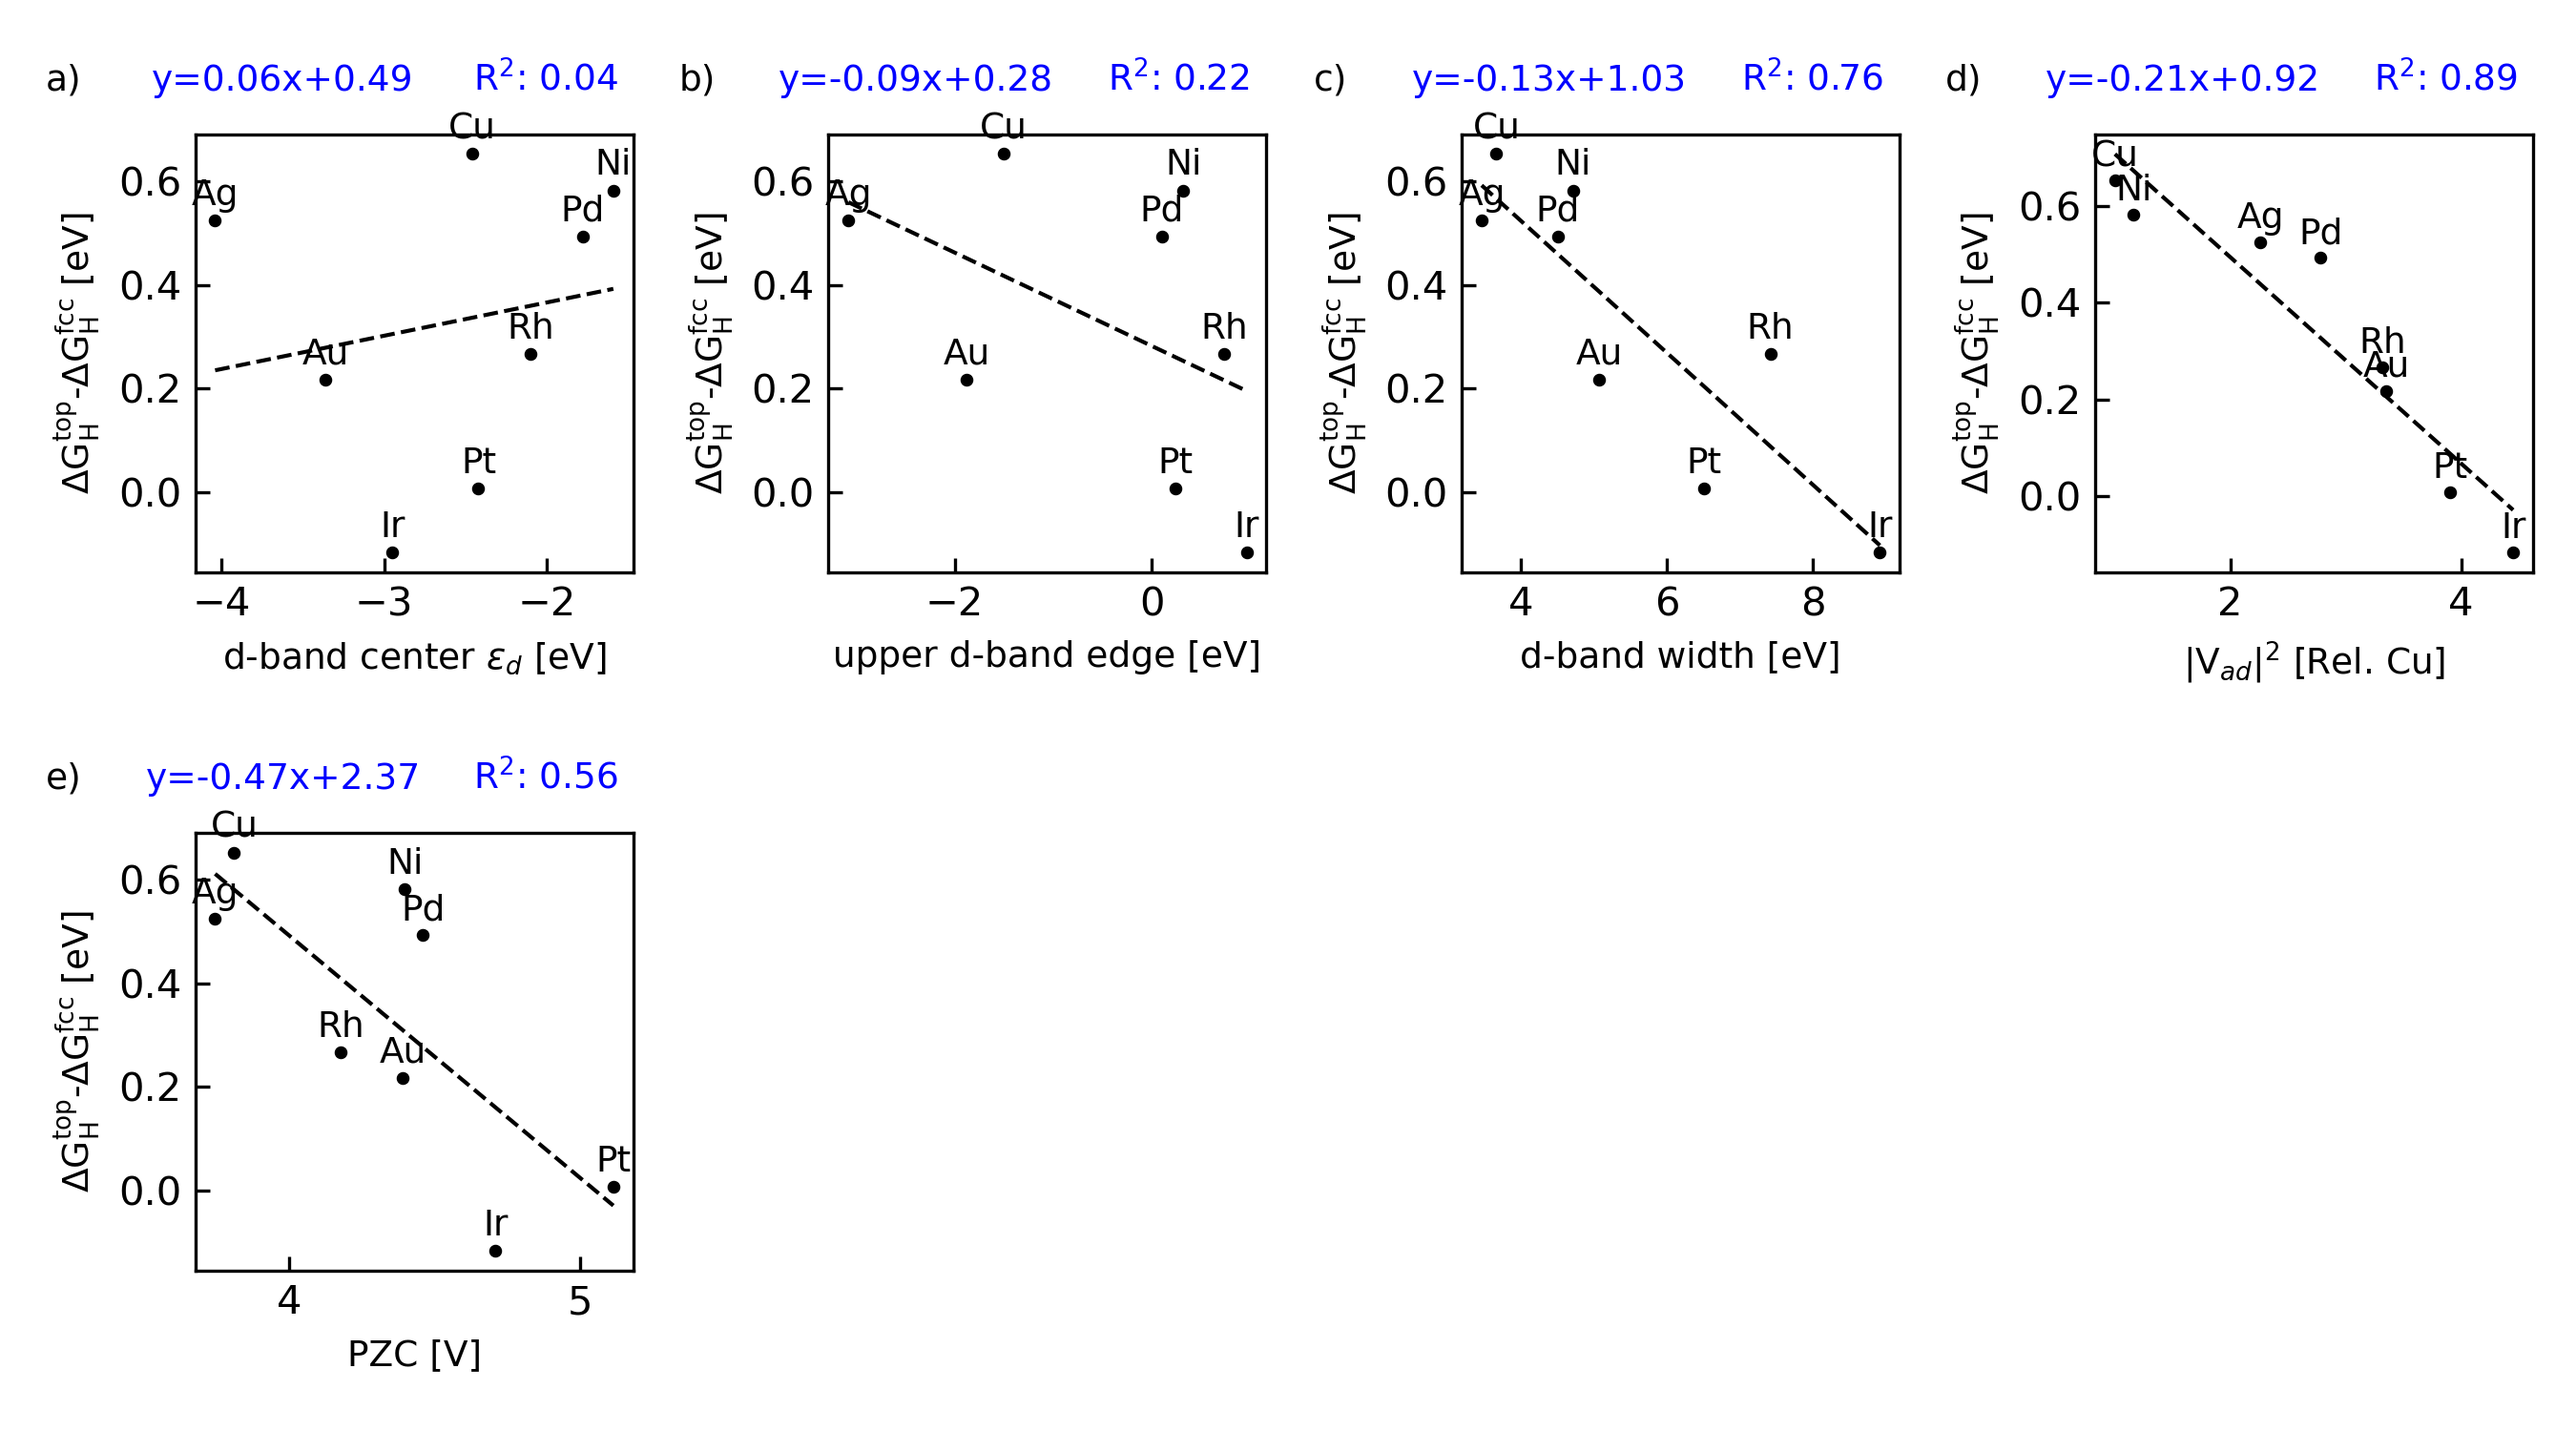
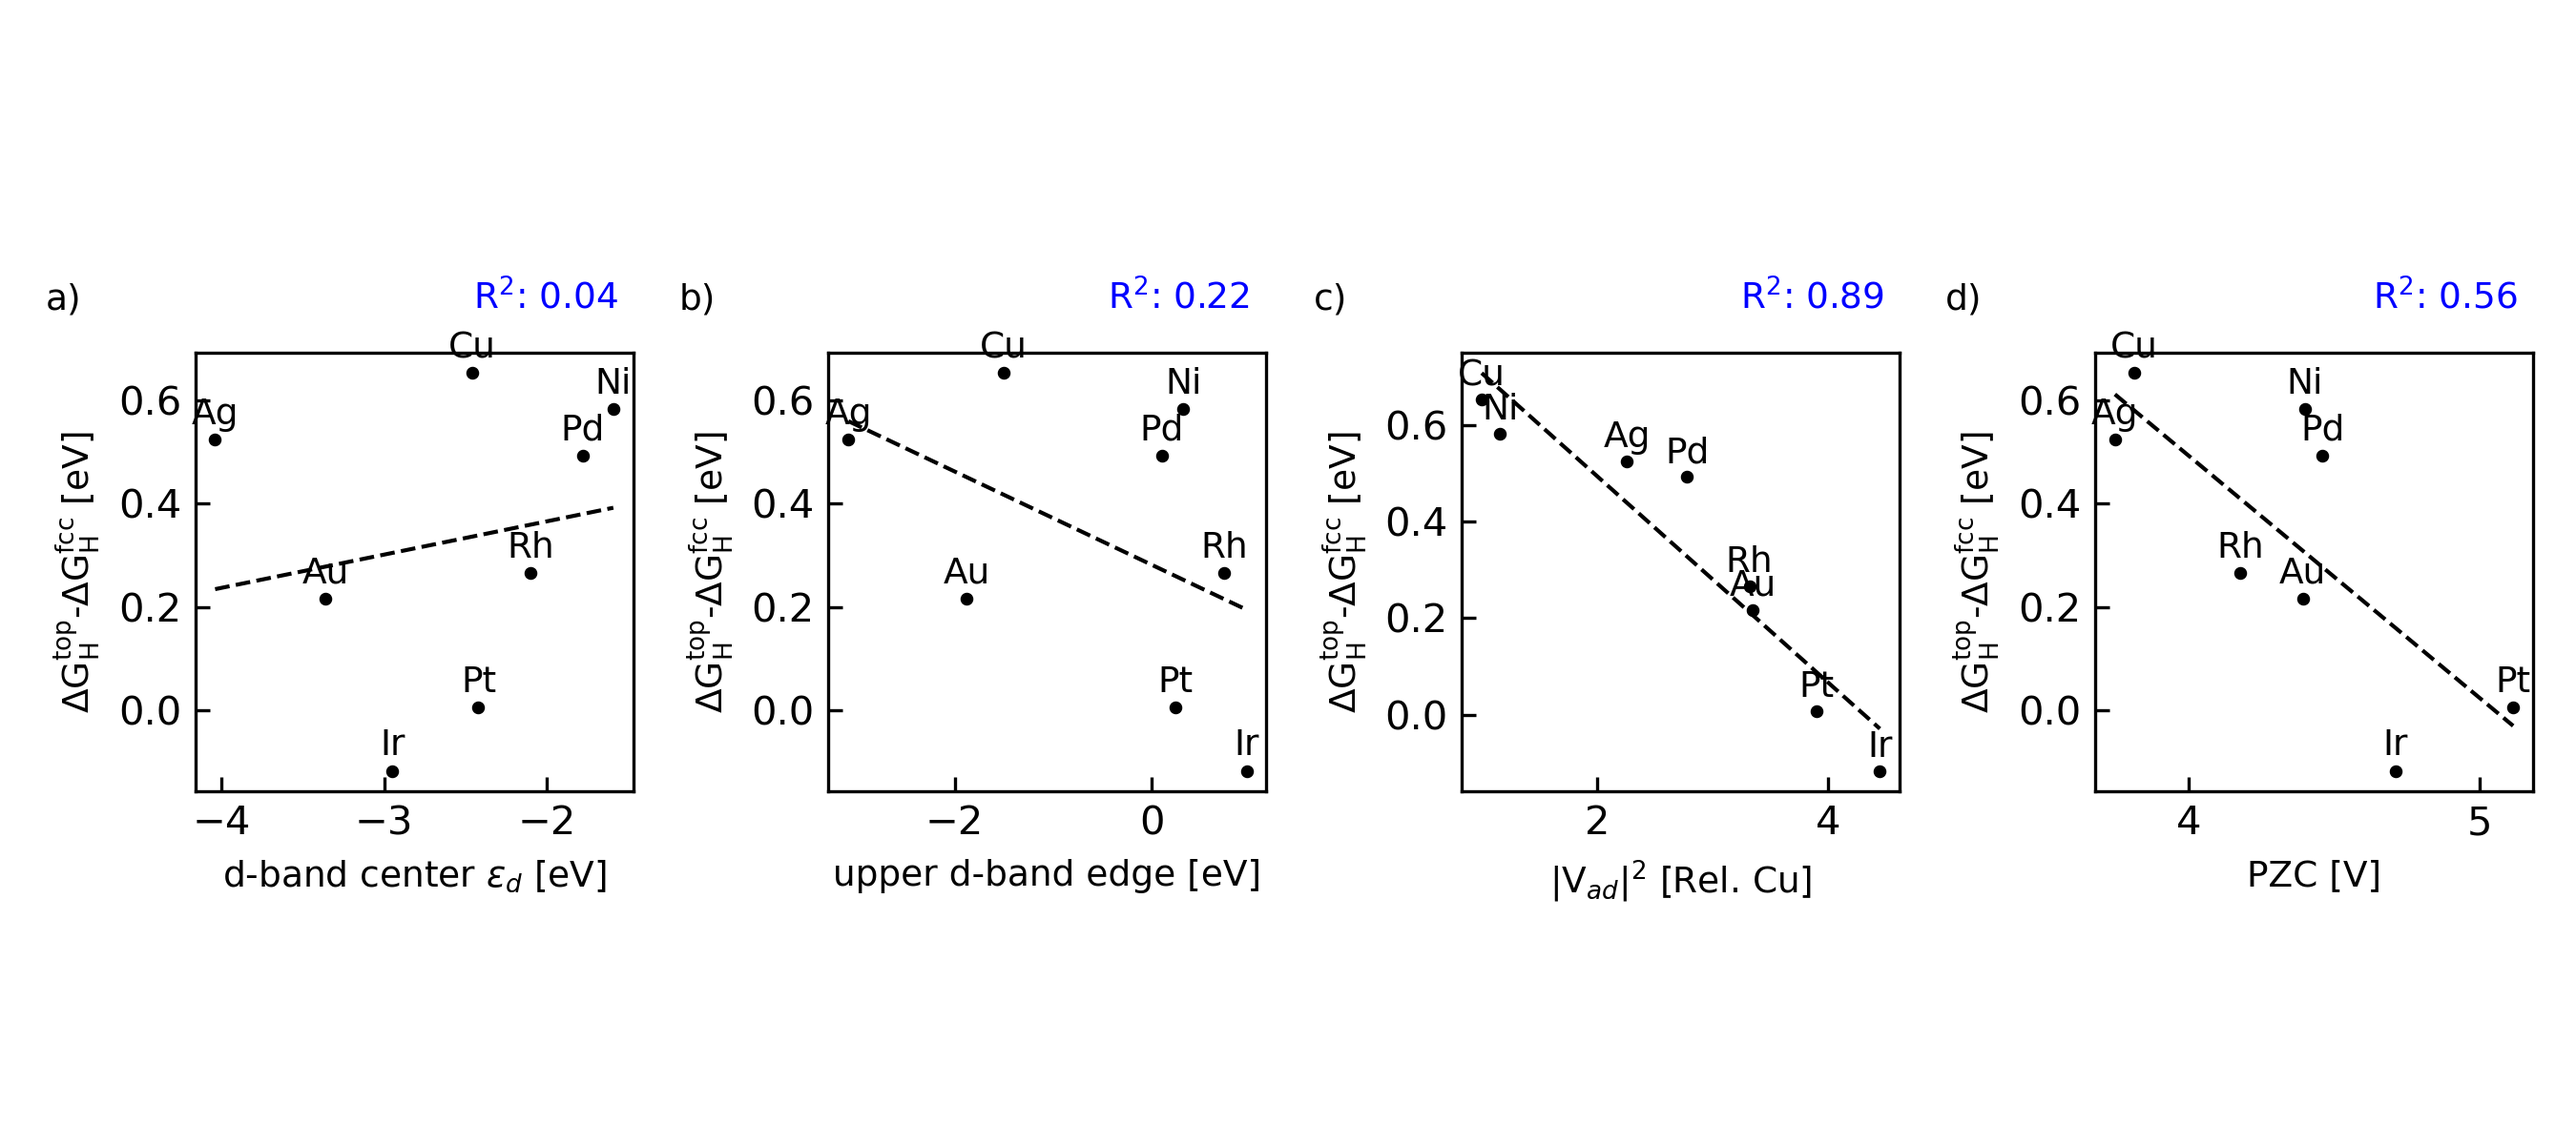
update

diff --git a/Figures_SI/electronic_correlations/plot_Y_vs_X_her.py b/Figures_SI/electronic_correlations/plot_Y_vs_X_her.py
@@ -233,10 +233,14 @@ if __name__ == "__main__":
             termination='111'
         terminations.append(termination)
 
-    for ykey in ['i0','heyrovsky','volmer','tafel','PZC','vac_Htop','vac_HBE','WF','Htop-Hfcc','dbandcenterVoj','dbandwidthVoj','dbandupperedgeVoj','dbandupperedgeXin','dbandupperedge']: 
+    for ykey in ['i0','heyrovsky','volmer','tafel','PZC','vac_Htop','vac_HBE','WF','Htop-Hfcc','dbandcenterHam','dbandcenterVoj','dbandwidthVoj','dbandupperedgeVoj','dbandupperedgeXin','dbandupperedge']: 
         for xkey in ['Htop-Hfcc','vac_HBE','vac_Htop','PZC','WF', 'dbandcenterVoj','dbandwidthVoj','vsquaredRELVoj','dbandupperedgeVoj','dbandupperedgeXin','dbandupperedge']:
 
-            if ykey == 'volmer':
+            if ykey == 'i0':
+                yvals= np.array(  [float(df.loc[ df['metal'] == metal, ykey].iloc[0])  for metal in metals ] )
+                ylabel=r'log($|j_0|$/(mA cm$^{-2}$))'
+            
+            elif ykey == 'volmer':
                 yvals= np.array(  [ float( df.loc[ df['metal'] == metal, ykey].iloc[0])  for metal in metals ] )
                 ylabel=r'$\Delta \Omega_{\text{Volmer}} ^{\ddagger}$ [eV] '
             
@@ -251,9 +255,6 @@ if __name__ == "__main__":
                 print(ykey)
                 print(yvals)
             
-            elif ykey == 'i0':
-                yvals= np.array(  [float(df.loc[ df['metal'] == metal, ykey].iloc[0])  for metal in metals ] )
-                ylabel=r'log($|j_0|$/(mA cm$^{-2}$))'
             
             elif ykey == 'PZC':
                 yvals= np.array(  [float(df.loc[ df['metal'] == metal, ykey].iloc[0])  for metal in metals ] )
@@ -286,17 +287,17 @@ if __name__ == "__main__":
                 ylabel=r'|V$_{ad}$|$^2$ [Rel. Cu]' 
             
 
-            elif ykey == 'dbandcenter': 
-                yvals  = np.array(  [float(TM.loc[ TM['metal'] == metal, ykey].iloc[0])  for metal in metals ] )
-                ylabel=r'd-band center $\epsilon_d$ [eV]'
+            elif ykey == 'dbandcenterHam': 
+                yvals  = np.array(  [float(TM.loc[ TM['metal'] == metal, 'dbandcenter'].iloc[0])  for metal in metals ] )
+                ylabel=r'd-band center Ham00 $\epsilon_d$ [eV]'
+            elif ykey == 'dbandcenterVoj': 
+                yvals  = np.array(  [Voj.loc[ Voj['metal'] == metal, 'ed']  for metal in metals ] )
+                ylabel=r'd-band center Voj14 $\epsilon_d$ [eV]'
         
-            elif ykey == 'dbandupperedge':   
+            elif ykey == 'dbandupperedgeMP':   
                 yvals= np.array(  [ float(TM.loc[ TM['metal'] == metal, ykey].iloc[0])  for metal in metals ] )
                 ylabel=r'd-band upper edge SimiamMP [eV]'
             
-            elif ykey == 'dbandcenterVoj': 
-                yvals  = np.array(  [Voj.loc[ Voj['metal'] == metal, 'ed']  for metal in metals ] )
-                ylabel=r'd-band center $\epsilon_d$ [eV]'
         
             elif ykey == 'dbandupperedgeVoj':   
                 
@@ -350,11 +351,11 @@ if __name__ == "__main__":
                 xvals = htops - hfccs
                 xlabel=r'$\Delta$G$_{\text{H}}^{\text{top}}$-$\Delta$G$_{\text{H}}^{\text{fcc}}$ [eV]' #vac
             
-            elif xkey == 'dbandcenter': 
-                xvals  = np.array(  [TM.loc[ TM['metal'] == metal, xkey]  for metal in metals ] )
-                xlabel=r'd-band center $\epsilon_d$ [eV]'
+            elif xkey == 'dbandcenterHam': 
+                xvals  = np.array(  [TM.loc[ TM['metal'] == metal, 'dbandcenter']  for metal in metals ] )
+                xlabel=r'd-band center Ham00 $\epsilon_d$ [eV]'
         
-            elif xkey == 'dbandupperedge':   
+            elif xkey == 'dbandupperedgeMP':   
                 xvals= np.array(  [TM.loc[ TM['metal'] == metal, xkey]  for metal in metals ] )
                 #xlabel=r'd-band upper edge [eV]'
                 xlabel=r'd-band upper edge SimiamMP [eV]'
@@ -367,7 +368,7 @@ if __name__ == "__main__":
 
             elif xkey == 'dbandcenterVoj': 
                 xvals  = np.array(  [Voj.loc[ Voj['metal'] == metal, 'ed']  for metal in metals ] )
-                xlabel=r'd-band center $\epsilon_d$ [eV]'
+                xlabel=r'd-band center Voj2014 $\epsilon_d$ [eV]'
         
             elif xkey == 'dbandupperedgeVoj':   
                 
@@ -395,7 +396,7 @@ if __name__ == "__main__":
                 mcns= np.array(  [Voj.loc[ Voj['metal'] == metal, 'mcn']  for metal in metals ] )
                 dwidths = 4*np.sqrt(mcns)
                 xvals = dwidths
-                xlabel=r'd-band width [eV]'
+                xlabel=r'd-band width Voj14 [eV]'
             
             elif xkey == 'PZC':
                 xvals= np.array(  [df.loc[ df['metal'] == metal, xkey]  for metal in metals ] )

diff --git a/Figures_SI/electronic_correlations/plot_descriptor_analysis_array.py b/Figures_SI/electronic_correlations/plot_descriptor_analysis_array.py
@@ -137,7 +137,7 @@ def plot_array(dd,labels,flag):
 
     Nkeys = len(dd.keys())
     
-    for v in [1,2,3,4,5,6,7,8]: #versions.
+    for v in [1,2,3,4,5,6,7,8,9]: #versions.
 
         if v ==1:
             #Version 1
@@ -221,9 +221,20 @@ def plot_array(dd,labels,flag):
             figsize = (9,5)
             ykeys = ['hdiff']*8 #Ncols +['htop']*Ncols +['hdiff']*Ncols #dd.keys()
             xkeys = [dd.keys().to_list()[i] for i in [1,2,3,4,5]]*2
-            figname='hdiff_vs_descriptors'
+            figname='hdiff_vs_descriptors_full'
             show_equation=True
             hidden_axes = [5,6,7]
+        
+        elif v==9:
+            #Version 
+            Nrows = 1
+            Ncols = 4
+            figsize = (9,4)
+            ykeys = ['hdiff']*4 #Ncols +['htop']*Ncols +['hdiff']*Ncols #dd.keys()
+            xkeys = ['dcenter','dedge','vad','pzc'] #dd.keys().to_list()[i] for i in [1,2,3,4,5]]*2
+            figname='hdiff_vs_descriptors'
+            show_equation=False
+            hidden_axes = []
     
     
     
@@ -321,11 +332,14 @@ if __name__ == "__main__":
     
 
     metals = df['metal'].tolist()
+    
+    #Vojvodic2014:
     dcenters  = np.array([float(Voj.loc[ Voj['metal'] == metal, 'ed'].iloc[0])  for metal in metals ] )
     
     mcns= np.array( [float(Voj.loc[ Voj['metal'] == metal, 'mcn'].iloc[0])  for metal in metals ] )
     dwidths = 4*np.sqrt(mcns)
 
+    #Vojvodic2014, same as HammerNorskov2000
     vads  =  np.array( [float(Voj.loc[ Voj['metal'] == metal, 'vad'].iloc[0])  for metal in metals ] )
     pzcs=np.array([float(df.loc[ df['metal'] == metal, 'PZC'].iloc[0])  for metal in metals ] )
     wfs = []
@@ -345,11 +359,16 @@ if __name__ == "__main__":
     #edge_flag = 'Voj'
     #edge_flag = 'Xin'
     #edge_flag = 'MP'
-        if edge_flag == 'Voj': dedges = dcenters + dwidths/2
+        if edge_flag == 'Voj': 
+            #Vojvodic2014
+            dedges = dcenters + dwidths/2
         elif edge_flag == 'Xin': 
+            #Xin2014
             dedges =  np.array( [float(Xin.loc[ Xin['metal'] == metal, 'dedge'].iloc[0])  for metal in metals ] )
             edge_flag=''
-        elif edge_flag == 'MP': dedges=np.array(  [float( TM.loc[ TM['metal'] == metal, 'dbandupperedge' ].iloc[0]) for metal in metals]  )
+        elif edge_flag == 'MP':
+            #estimates from Materials  Project 
+            dedges=np.array(  [float( TM.loc[ TM['metal'] == metal, 'dbandupperedge' ].iloc[0]) for metal in metals]  )
 
         dd = pd.DataFrame({
                            'metal':metals,
